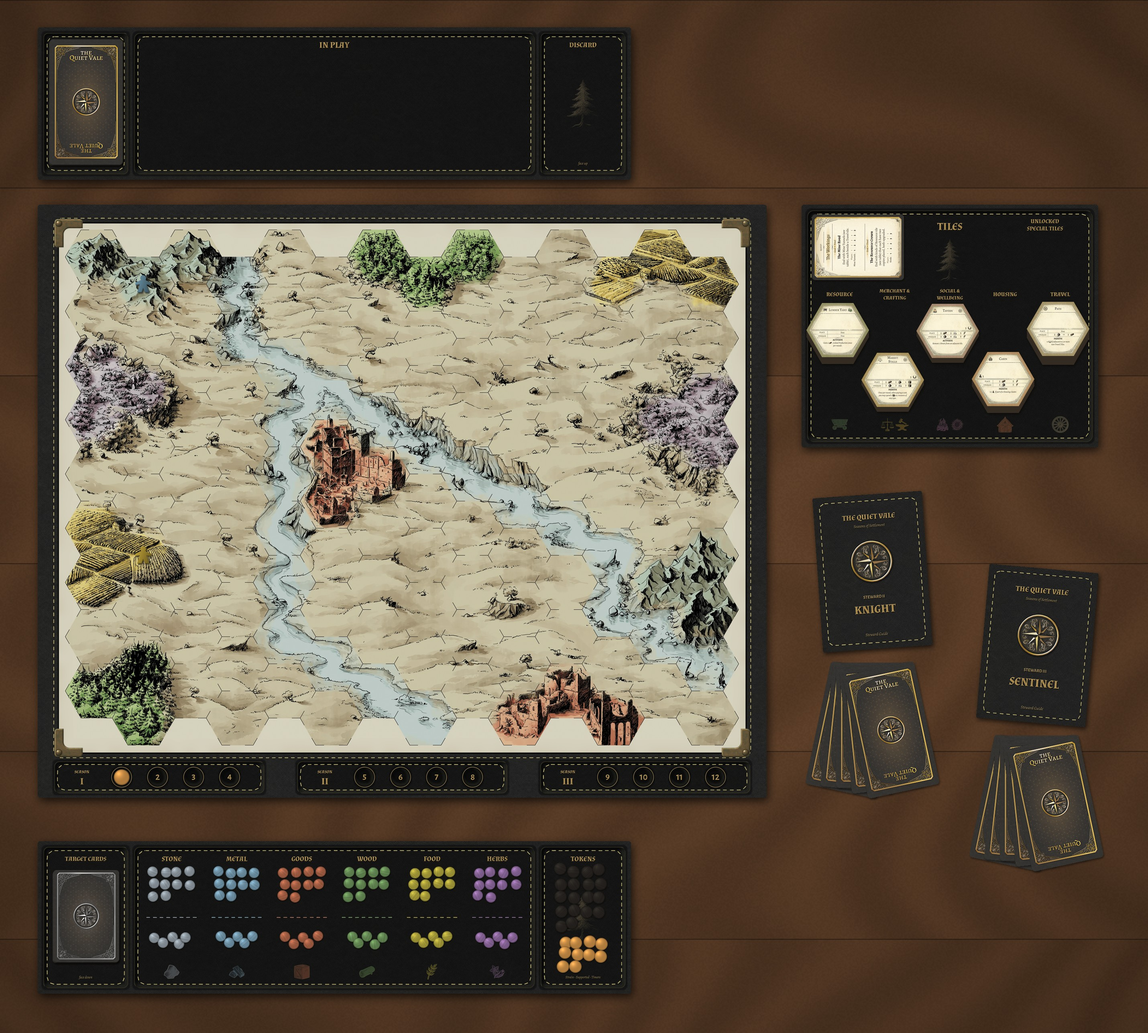
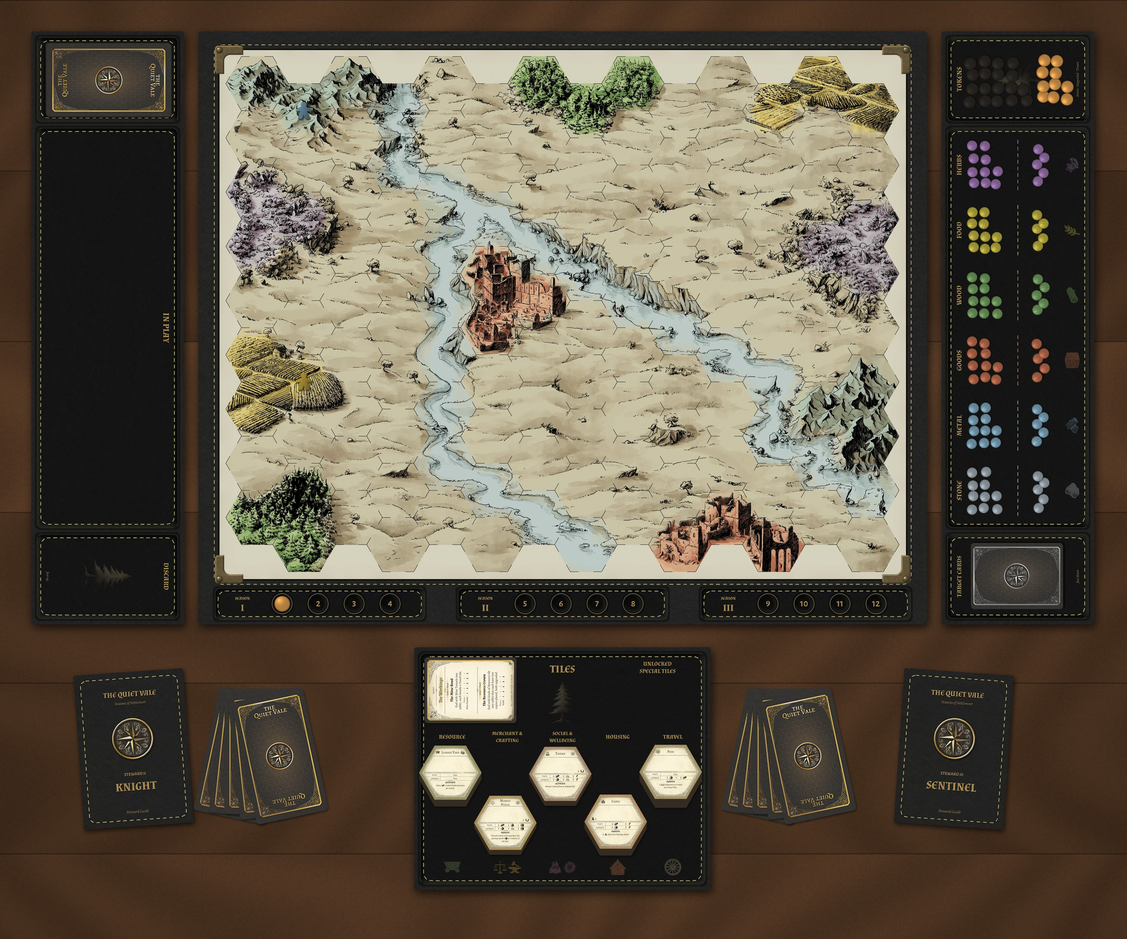
Rulebook setup picture: Encounter and Logistics boards on end beside the map, facing inwards
Claude-Session: https://claude.ai/code/session_016DP5VWUVCmVpXZk9iKiBwc

diff --git a/design/rulebook-v6_9/figures.py b/design/rulebook-v6_9/figures.py
@@ -31,9 +31,9 @@ OUT = HERE / "assets"
 OUT.mkdir(parents=True, exist_ok=True)
 META: dict[str, dict] = {}
 
-CARD_BACK_TAROT = ROOT / "design/encounter-card-templates/card-back/print/card-back-tarot-printerstudio-600dpi.webp"
-BACK_GOLD = ROOT / "design/encounter-card-templates/card-back/print/card-back-poker-gold-printerstudio-600dpi.webp"
-BACK_SILVER = ROOT / "design/encounter-card-templates/card-back/print/card-back-poker-silver-printerstudio-600dpi.webp"
+CARD_BACK_TAROT = ROOT / "design/encounter-card-templates/card-back/print/card-back-tarot-printerstudio-600dpi.png"
+BACK_GOLD = ROOT / "design/encounter-card-templates/card-back/print/card-back-poker-gold-printerstudio-600dpi.png"
+BACK_SILVER = ROOT / "design/encounter-card-templates/card-back/print/card-back-poker-silver-printerstudio-600dpi.png"
 QUEST = lambda n: ROOT / f"design/quest-cards/print/quest-{n:02d}.png"  # noqa: E731
 TARGET = lambda n: ROOT / f"design/target-cards/print/target-{n:02d}.png"  # noqa: E731
 GUIDE = lambda sid: ROOT / f"design/steward-guides/assets/cover-{sid}.jpg"  # noqa: E731
@@ -168,10 +168,24 @@ def tile_stack(tile: str, n: int, ppm: float, side="basic") -> Image.Image:
 
 # ---------------------------------------------------------------- setup table
 def setup_table():
+    """The table from above: the map in the middle, the Encounter board on its
+    left and the Logistics board on its right, both standing on end with their
+    lettering facing the map, and the Tiles board below."""
     T = 2.6  # px per mm on the table
-    W_MM, H_MM = 1100, 990
+    W_MM, H_MM = 1080, 900
     canvas = wood_table(round(W_MM * T), round(H_MM * T))
     pos = {}
+    LW, LH = 568.5, 146.0          # a side board lying flat
+    GAP = 14
+    EX, MY = 30, 30                 # Encounter board (on end) at the left
+    MX = EX + LH + GAP              # map
+    LX = MX + 698.5 + GAP           # Logistics board (on end) at the right
+
+    def left(x, y):    # Encounter board point -> table, turned clockwise (top faces the map)
+        return EX + (LH - y), MY + x
+
+    def right(x, y):   # Logistics board point -> table, turned anticlockwise (top faces the map)
+        return LX + y, MY + (LW - x)
 
     # Map board with Steward meeples and the Round marker on 1.
     sc = Scene()
@@ -183,63 +197,59 @@ def setup_table():
     b = round(S.BLEED * S.PPM)
     mapb = sc.img.crop((b, b, sc.img.width - b, sc.img.height - b))
     mapb = rounded(mapb.resize((round(698.5 * T), round(568.5 * T)), Image.Resampling.LANCZOS), round(2.5 * T))
-    MX, MY = 36, 196
     place(canvas, mapb, MX, MY, T, shadow=(4, 0.8), lift=(1.5, 3))
     pos["map"] = (MX + 349, MY + 280)
     pos["round"] = (MX + 80.42, MY + 548.76)
     pos["meeple"] = (MX + S.svg_centre("B6")[0] + S.OFF_X, MY + S.svg_centre("B6")[1] + S.OFF_Y)
 
-    # Encounter board above: the Encounter deck face down in its well.
-    EX, EY = 36, 26
-    place(canvas, board("02-encounter-board-v4", T), EX, EY, T, shadow=(4, 0.8), lift=(1.5, 3))
+    # Encounter board, built flat, then stood on end at the left.
+    eb = board("02-encounter-board-v4", T)
     back = tarot_back(T)
     for i in range(4):
-        place(canvas, back, EX + 6 + 5 + i * 0.25, EY + 6 + 7 - i * 0.4, T, shadow=(0.8, 0.5))
-    pos["encdeck"] = (EX + 46, EY + 73)
-    pos["inplay"] = (EX + 284, EY + 73)
+        place(eb, back, 6 + 5 + i * 0.25, 6 + 7 - i * 0.4, T, shadow=(0.8, 0.5))
+    place(canvas, eb, EX, MY, T, rot=-90, shadow=(4, 0.8), lift=(1.5, 3))
+    pos["encdeck"] = left(46, 73)
+    pos["inplay"] = left(284, 73)
 
-    # Logistics board below: Target deck, Warehouse at 2 players, tokens.
-    LX, LY = 36, 806
-    place(canvas, board("03-logistics-board-v4", T), LX, LY, T, shadow=(4, 0.8), lift=(1.5, 3))
+    # Logistics board: Target deck, Warehouse at 2 players, tokens; stood on end at the right.
+    lb = board("03-logistics-board-v4", T)
     sil = poker(BACK_SILVER, T)
     for i in range(4):
-        place(canvas, sil, LX + 6 + 8.5 + i * 0.2, LY + 6 + 23 - i * 0.35, T, shadow=(0.8, 0.5))
-    pos["target"] = (LX + 46, LY + 73)
-    cl, cr = 6 + 80 + 7, 568.5 - (6 + 80 + 7)
+        place(lb, sil, 6 + 8.5 + i * 0.2, 6 + 23 - i * 0.35, T, shadow=(0.8, 0.5))
+    cl, cr = 6 + 80 + 7, LW - (6 + 80 + 7)
     inner_l, inner_r = cl + 4, cr - 4
     lw = (inner_r - inner_l) / 6
     rng = np.random.default_rng(3)
     order = ["stone", "metal", "goods", "wood", "food", "herbs"]
     for i, r in enumerate(order):
-        cx = LX + inner_l + lw * (i + 0.5)
+        cx = inner_l + lw * (i + 0.5)
         for k in range(10):  # stock: 10 each at 2 players
             col, row = k % 4, k // 4
             x = cx + (col - 1.5) * 11.5 + rng.uniform(-1.2, 1.2)
-            y = LY + 30 + row * 11.5 + rng.uniform(-1.2, 1.2)
-            centre(canvas, disc(10, RES_COLOURS[r], T, seed=k + i * 20, grain=0.05), x, y, T, shadow=(0.6, 0.6), lift=(0.4, 0.7))
+            y = 30 + row * 11.5 + rng.uniform(-1.2, 1.2)
+            centre(lb, disc(10, RES_COLOURS[r], T, seed=k + i * 20, grain=0.05), x, y, T, shadow=(0.6, 0.6), lift=(0.4, 0.7))
         for k in range(5):  # spare pieces below the stitch
             x = cx + (k - 2) * 7.5 + rng.uniform(-1.5, 1.5)
-            y = LY + 92 + (k % 2) * 6 + rng.uniform(-1, 1)
-            centre(canvas, disc(10, RES_COLOURS[r], T, seed=k + i * 20 + 300, grain=0.05), x, y, T, shadow=(0.6, 0.6), lift=(0.4, 0.7))
-    pos["warehouse"] = (LX + 284, LY + 18)
-    tx = LX + 568.5 - 6 - 80
+            y = 92 + (k % 2) * 6 + rng.uniform(-1, 1)
+            centre(lb, disc(10, RES_COLOURS[r], T, seed=k + i * 20 + 300, grain=0.05), x, y, T, shadow=(0.6, 0.6), lift=(0.4, 0.7))
+    tx = LW - 6 - 80
     for k in range(18):
-        x = tx + 18 + (k % 4) * 13 + rng.uniform(-2, 2)
-        y = LY + 28 + (k // 4) * 13 + rng.uniform(-2, 2)
-        centre(canvas, disc(12, STRAIN, T, seed=k, grain=0.06, sheen=0.55), x, y, T, shadow=(0.6, 0.6), lift=(0.4, 0.7))
+        centre(lb, disc(12, STRAIN, T, seed=k, grain=0.06, sheen=0.55), tx + 18 + (k % 4) * 13 + rng.uniform(-2, 2), 28 + (k // 4) * 13 + rng.uniform(-2, 2), T, shadow=(0.6, 0.6), lift=(0.4, 0.7))
     for k in range(10):
-        x = tx + 22 + (k % 4) * 12 + rng.uniform(-2, 2)
-        y = LY + 98 + (k // 4) * 11 + rng.uniform(-2, 2)
-        centre(canvas, disc(12, BRONZE, T, seed=k, sheen=0.6), x, y, T, shadow=(0.6, 0.6), lift=(0.4, 0.7))
-    pos["tokens"] = (tx + 40, LY + 73)
+        centre(lb, disc(12, BRONZE, T, seed=k, sheen=0.6), tx + 22 + (k % 4) * 12 + rng.uniform(-2, 2), 98 + (k // 4) * 11 + rng.uniform(-2, 2), T, shadow=(0.6, 0.6), lift=(0.4, 0.7))
+    place(canvas, lb, LX, MY, T, rot=90, shadow=(4, 0.8), lift=(1.5, 3))
+    pos["target"] = right(46, 73)
+    pos["warehouse"] = right(284, 30)
+    pos["tokens"] = right(tx + 40, 73)
 
-    # Tiles board to the right: the Quest Card and the Core Tile stacks.
-    BX, BY = 768, 196
+    # Tiles board below the map: the Quest Card and the Core Tile stacks.
+    BW, BH = 284.25, 232.83
+    BX, BY = MX + 349 - BW / 2, MY + 568.5 + 22
     place(canvas, board("04-tiles-board-v4", T), BX, BY, T, shadow=(4, 0.8), lift=(1.5, 3))
     q = poker(QUEST(7), T)
     place(canvas, q, BX + 10, BY + 9.5, T, rot=90, shadow=(0.9, 0.55))
     bays = [("c01_lumber_yard", 4), ("c14_market_stalls", 3), ("c09_tavern", 3), ("c05_cabin", 4), ("c15_path", 5)]
-    inner_l, inner_r = 6 + 4, 284.25 - 6 - 4
+    inner_l, inner_r = 6 + 4, BW - 6 - 4
     bw = (inner_r - inner_l) / 5
     for i, (tid, n) in enumerate(bays):
         st = tile_stack(tid, n, T)
@@ -248,17 +258,17 @@ def setup_table():
     pos["tiles"] = (BX + 142, BY + 147)
     pos["specials"] = (BX + 233, BY + 40)
 
-    # Each player's Steward Guide and hidden hand.
-    for i, (sid, gx, gy, rot) in enumerate([("knight", 778, 470, 4), ("sentinel", 935, 540, -5)]):
+    # Each player's Steward Guide and hidden hand, either side of the Tiles board.
+    for i, (sid, gx, gy, rot, hx) in enumerate([("knight", 70, 640, 4, 250), ("sentinel", BX + BW + 175, 640, -4, BX + BW + 75)]):
         g = Image.open(GUIDE(sid)).convert("RGBA")
         bpx = round(3.175 * g.width / 111.35)
         g = g.crop((bpx, bpx, g.width - bpx, g.height - bpx)).resize((round(105 * T), round(148 * T)), Image.Resampling.LANCZOS)
         g = rounded(g, round(1.5 * T))
         place(canvas, g, gx, gy, T, rot=rot, shadow=(2.2, 0.75), lift=(1, 2))
         for k in range(5):
-            centre(canvas, back, gx + 40 + k * 9, gy + 225 + abs(k - 2) * 2.4, T, rot=(k - 2) * 6, shadow=(0.9, 0.5))
+            centre(canvas, back, hx + (k - 2) * 9, gy + 80 + abs(k - 2) * 2.4, T, rot=(k - 2) * 6, shadow=(0.9, 0.5))
         pos[f"guide{i}"] = (gx + 52, gy + 74)
-        pos[f"hand{i}"] = (gx + 58, gy + 225)
+        pos[f"hand{i}"] = (hx, gy + 80)
     W, H = canvas.size
     save("fig-setup", canvas, {"points": {k: (round(v[0] / W_MM, 4), round(v[1] / H_MM, 4)) for k, v in pos.items()}})
 
